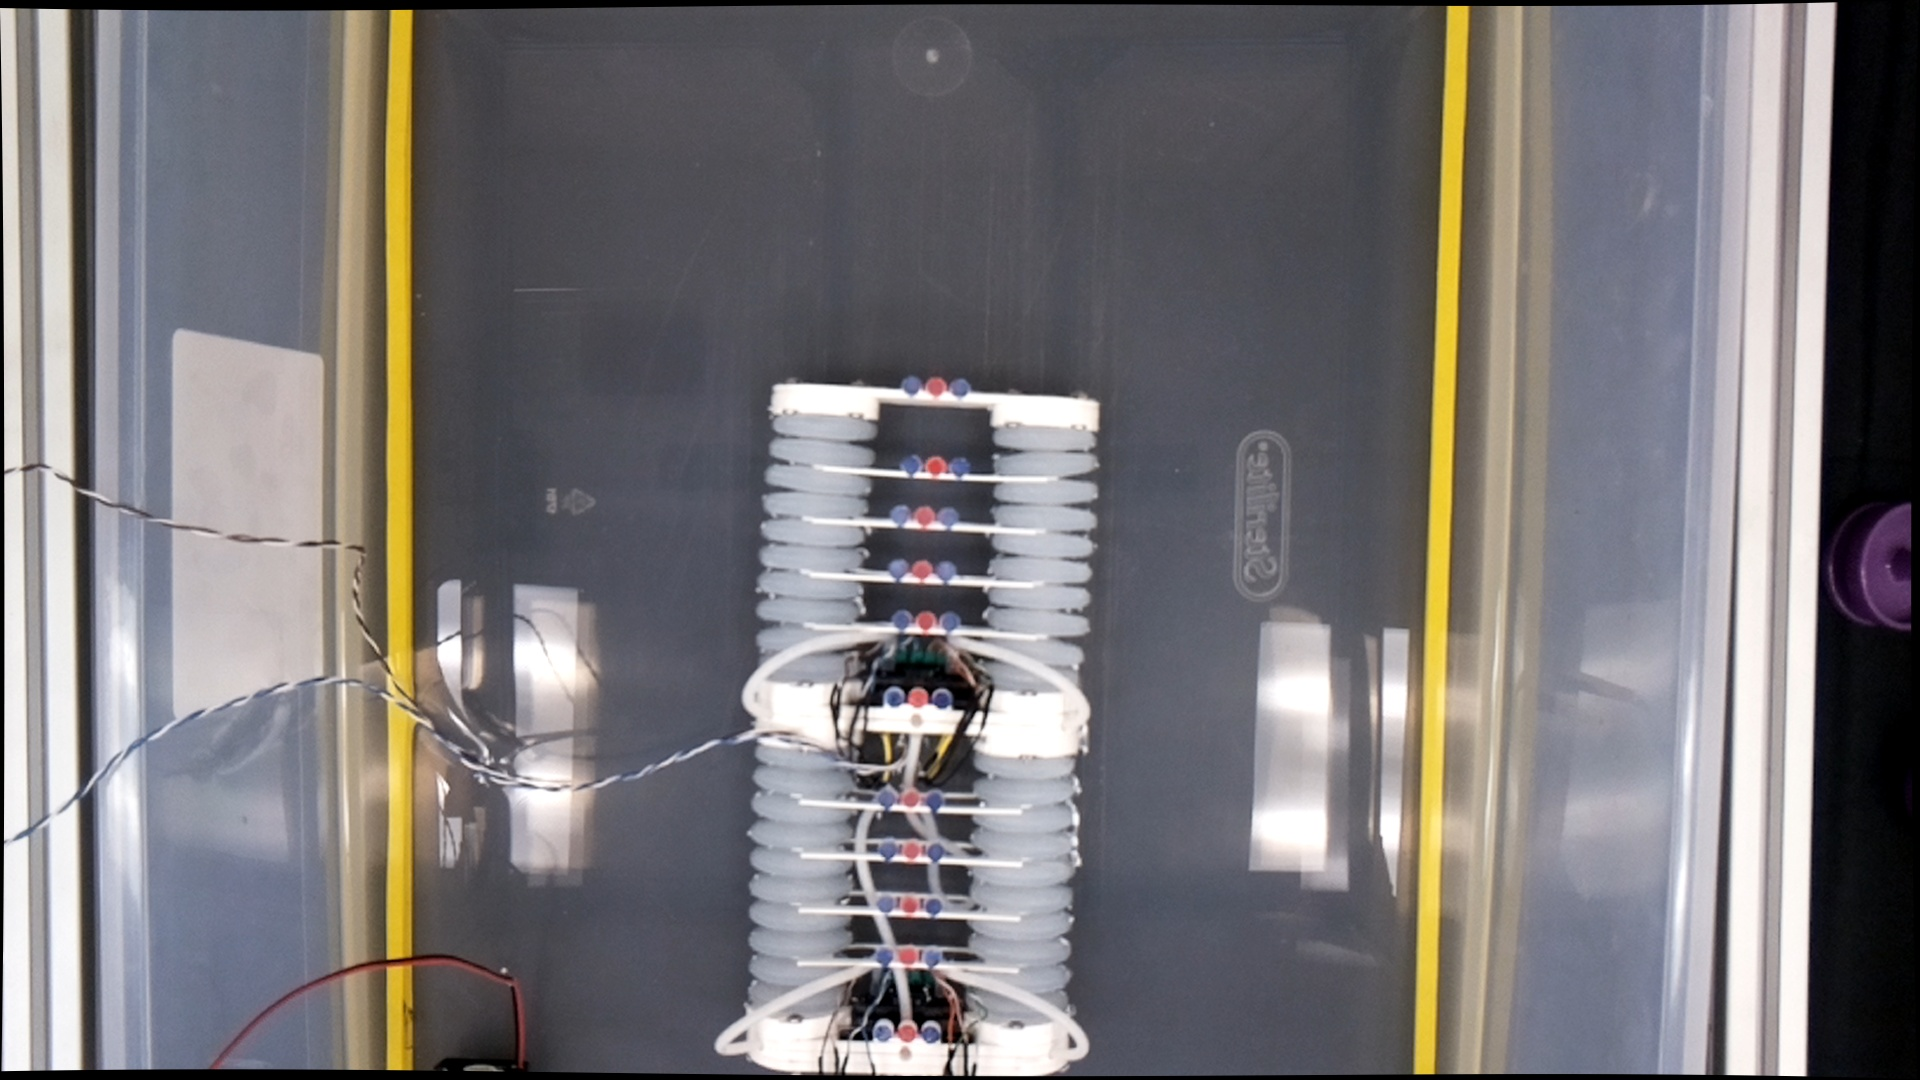
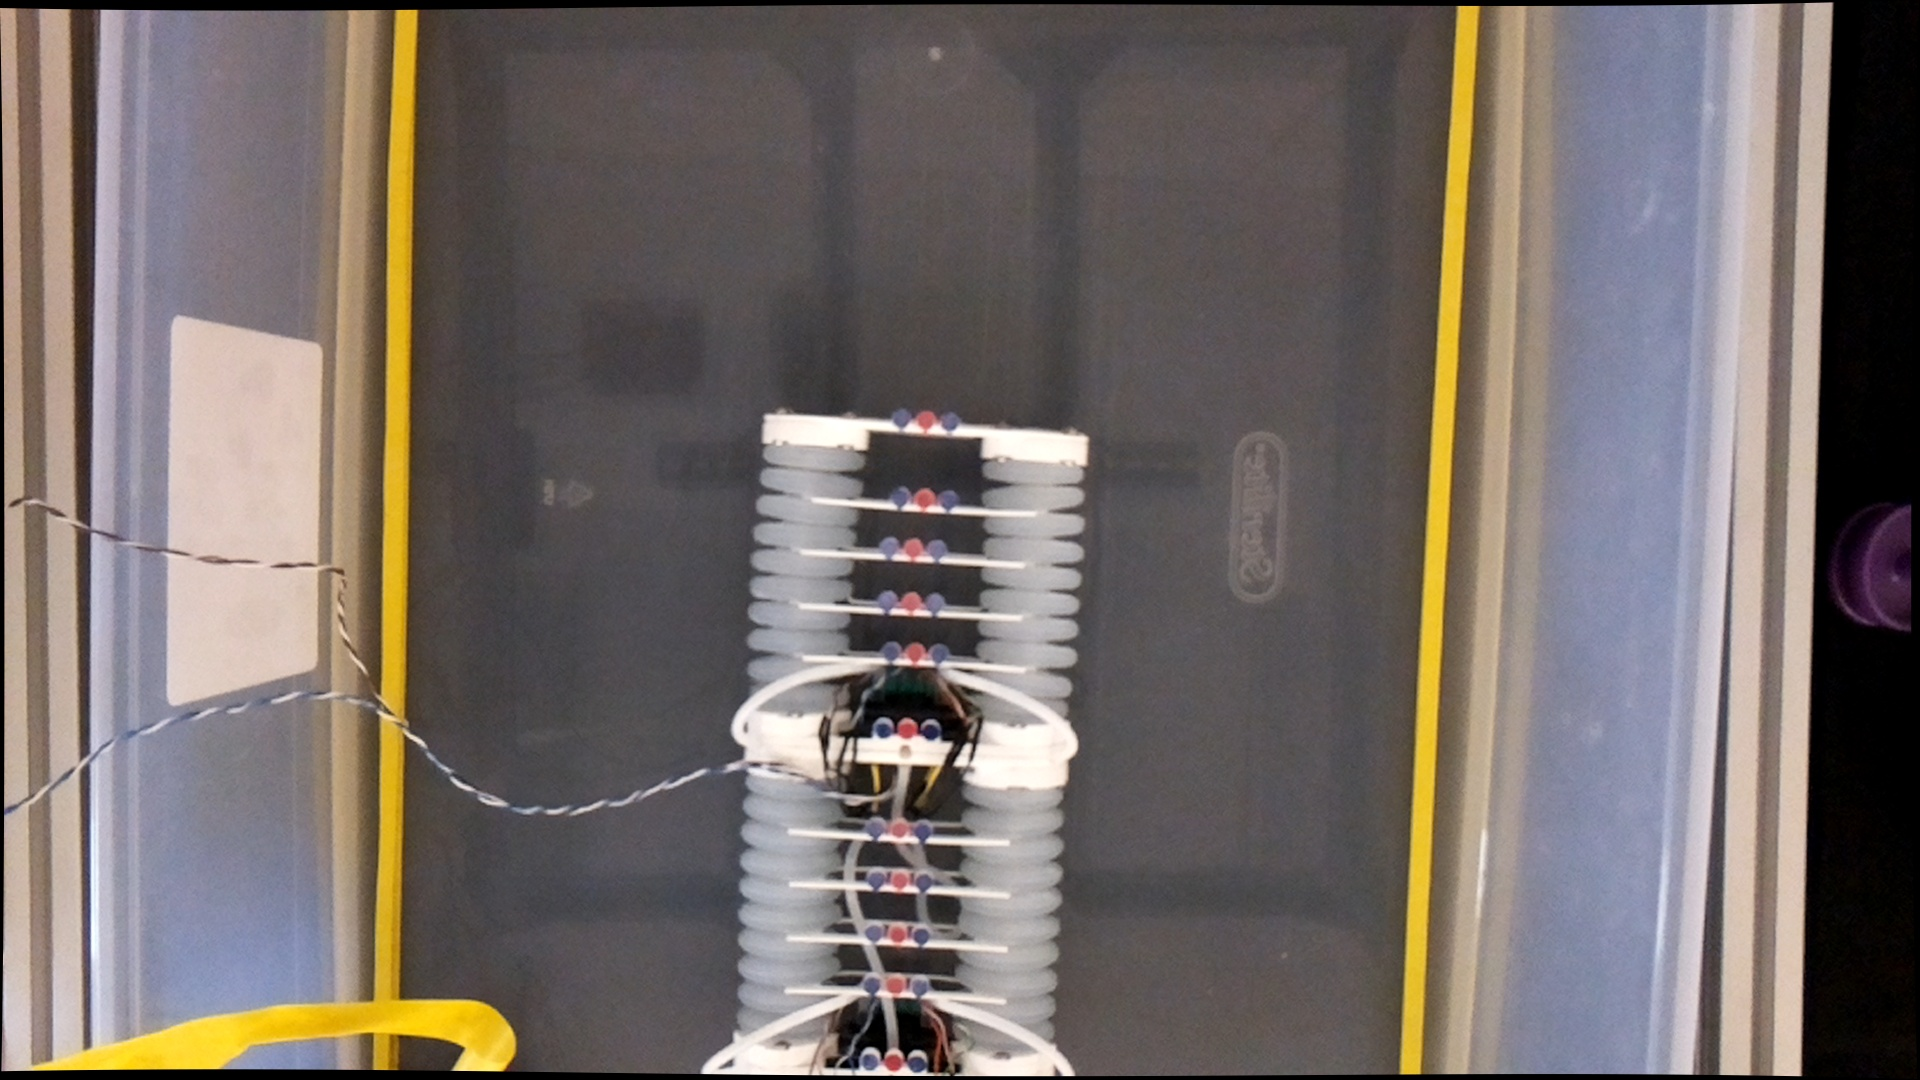
can readjust controller and new data

diff --git a/application/robot.py b/application/robot.py
@@ -12,6 +12,7 @@ from functools import partial
 import io
 
 import autompc as ampc
+from autompc.costs import ThresholdCost
 import pickle
 
 try:
@@ -522,6 +523,15 @@ class WaterRobot(threading.Thread):
         with open("controller.pkl", "rb") as f:
             controller = pickle.load(f)
         system = controller.system
+
+        target = [-7.0, 29.0]
+        ocp = ampc.OCP(system)
+        ocp.set_cost(ThresholdCost(system=system, goal=target, threshold=2.0, observations=["M10X", "M10Y"]))
+        for ctrl in system.controls:
+            ocp.set_ctrl_bound(ctrl, 0, 1)
+        controller.set_ocp(ocp)
+        controller.reset()
+
         # create tajectory for history
         traj = ampc.zeros(system, 1)
         traj[0].obs[:] = self.obs
@@ -531,8 +541,12 @@ class WaterRobot(threading.Thread):
         print(system.observations)
         print(system.controls)
 
-        os.remove("data/control_test.csv")
-        with open('data/control_test.csv', 'a', newline='') as file:
+        fname = "data/controltarg_" + str(int(target[0]))+ "_" + str(int(target[1])) + ".csv"
+        try:
+            os.remove(fname)
+        except:
+            pass
+        with open(fname, 'a', newline='') as file:
             writer = csv.DictWriter(file, fieldnames=self.control_headers)
             writer.writeheader()
         
